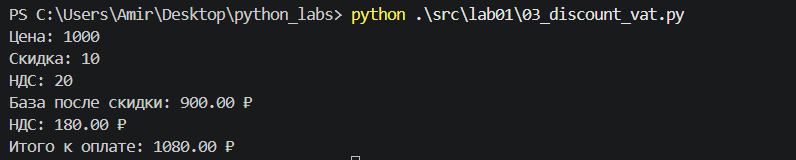
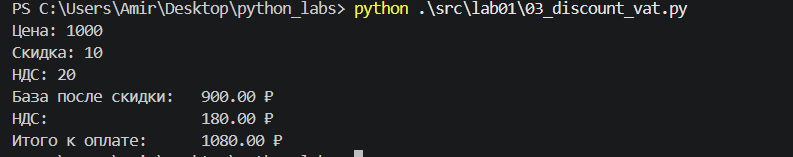
POSLEDNYA PRAVKA

diff --git a/src/lab01/03_discount_vat.py b/src/lab01/03_discount_vat.py
@@ -4,6 +4,6 @@ vat = float(input("НДС: "))
 base = price * (1 - discount / 100)
 vat_amount = base * (vat / 100)
 total = base + vat_amount
-print(f"База после скидки: {base:.2f} ₽")
-print(f"НДС: {vat_amount:.2f} ₽")
-print(f"Итого к оплате: {total:.2f} ₽")
+print(f"{"База после скидки:":<20} {base:.2f} ₽")
+print(f"{"НДС:":<20} {vat_amount:.2f} ₽")
+print(f"{"Итого к оплате:":<20} {total:.2f} ₽")

diff --git a/src/lab01/07_poisk.py b/src/lab01/07_poisk.py
@@ -1,4 +1,4 @@
-s = input()
+s = input('in: ')
 i = 0
 while not s[i].isupper():
     i += 1
@@ -13,4 +13,4 @@ while pos < len(s) and s[pos] != '.':
     result += s[pos]
     pos += step
 result += "."
-print(result)
+print('out: ',result)
